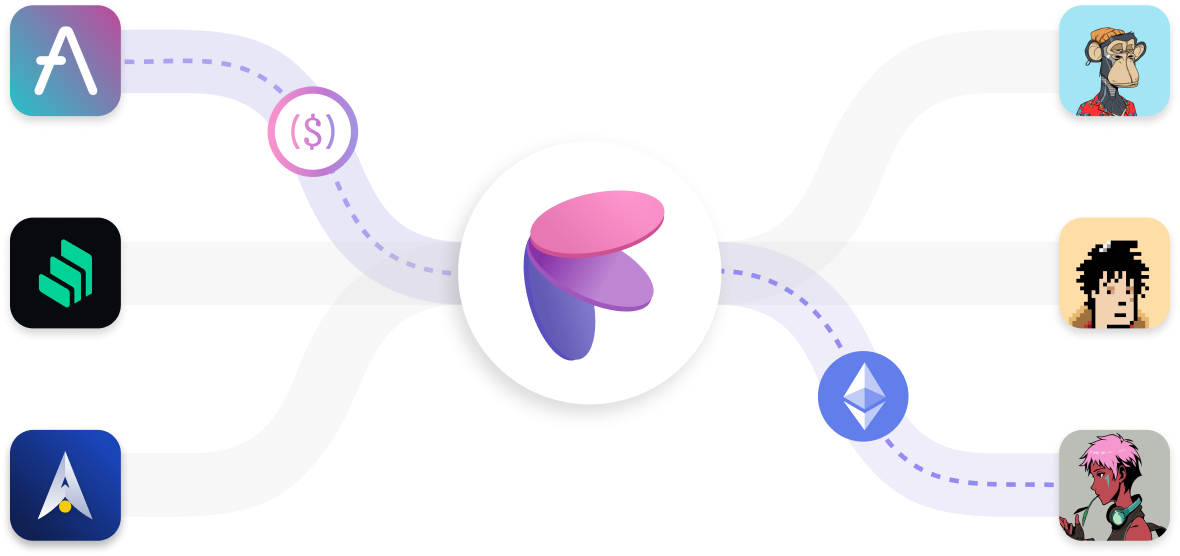
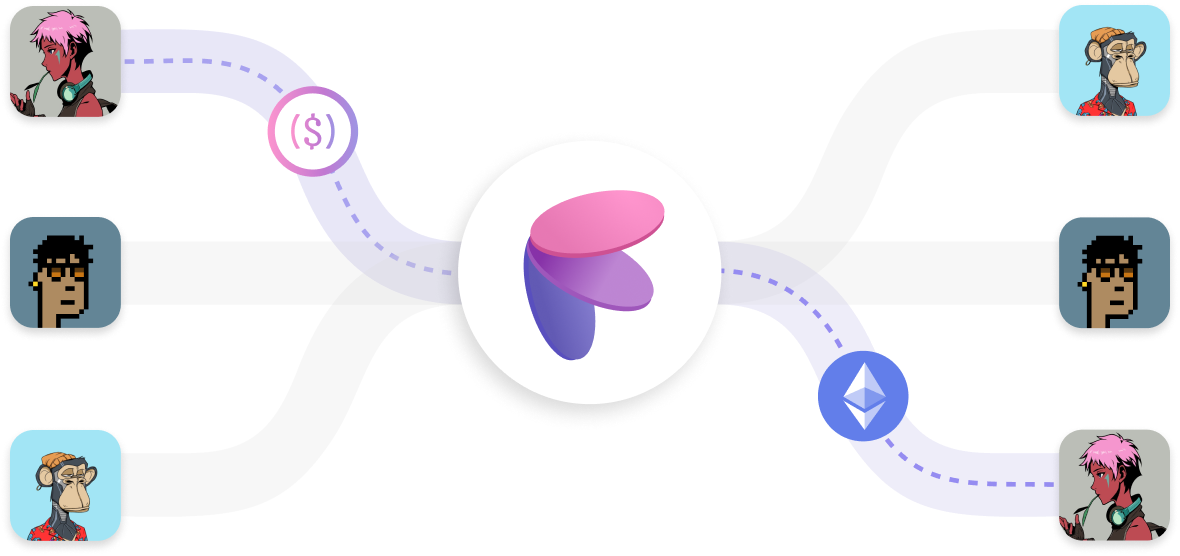
Updated defi image to option image

diff --git a/src/App.tsx b/src/App.tsx
@@ -94,7 +94,7 @@ function App() {
                 </div>
                 <Section
                     className="app-section defi-apps"
-                    header="Use your DeFi assets to buy and trade NFTs"
+                    header="Maximize your liquidity to get exposure on blue chips"
                     content={
                         <div className="app__defi-apps">
                             <DefiApps className="app__defi-apps-logo-xs"/>
